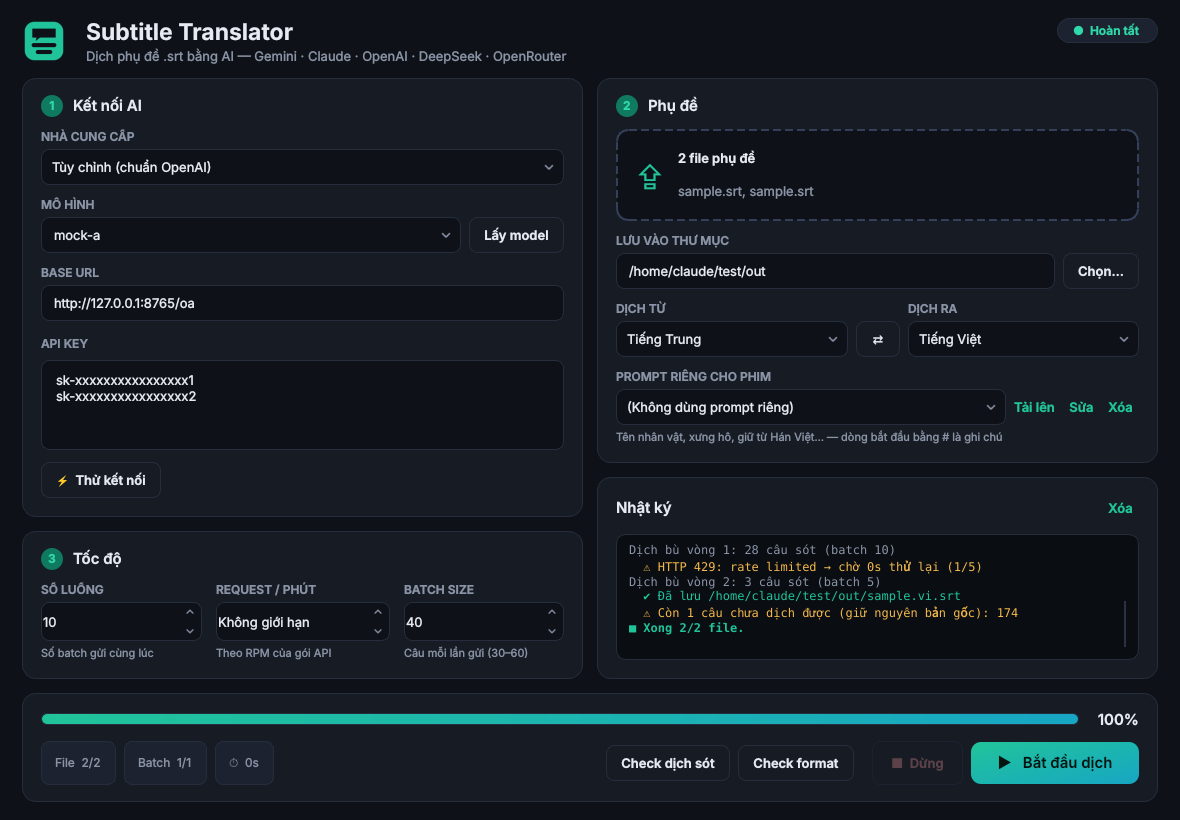
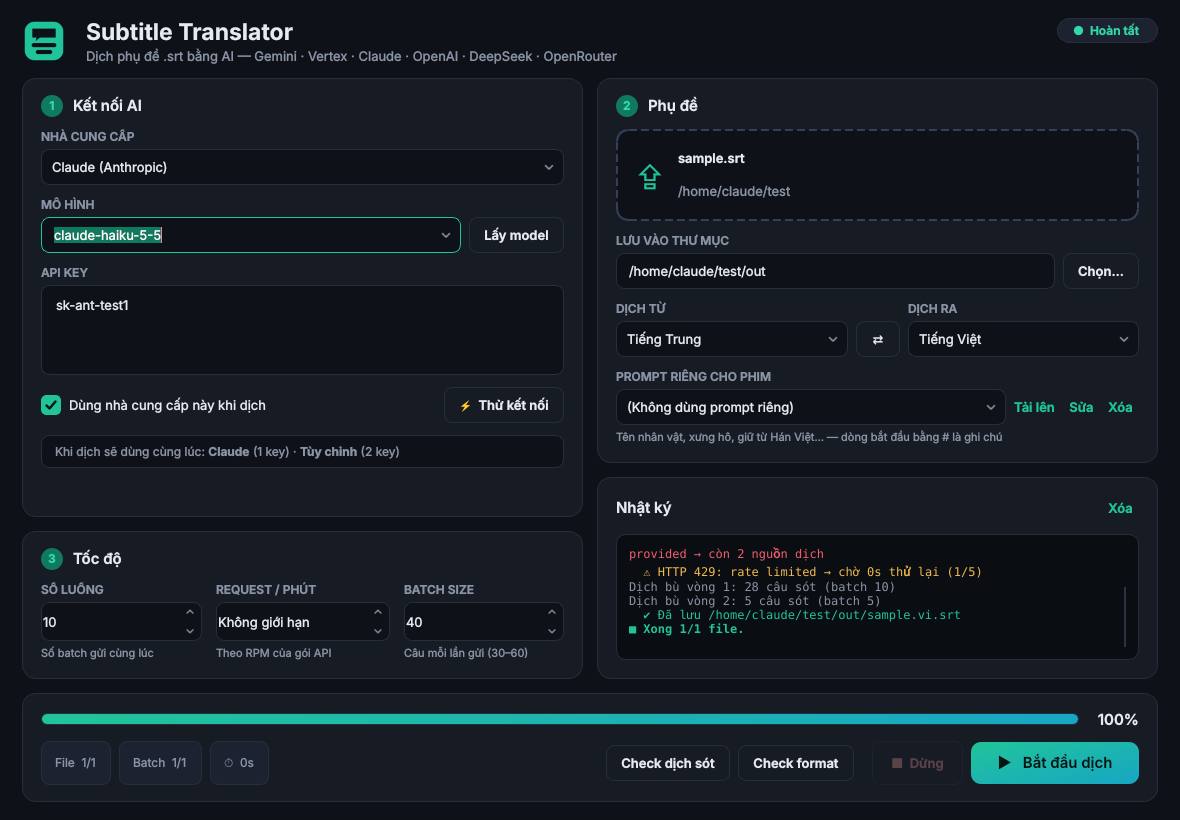
Dùng nhiều nhà cung cấp cùng lúc + tự loại key lỗi
- Mỗi nhà cung cấp có ô 'Dùng nhà cung cấp này khi dịch'; dòng tóm tắt các nguồn sẽ dùng
- Khi dịch: xoay vòng mọi key của mọi nhà cung cấp đã tick (không tick = chỉ nhà cung cấp đang chọn)
- Lỗi không thử lại được (401 sai key, sai model...) chỉ loại key đó, batch chuyển sang nguồn khác
- Sửa: chặn lưu cấu hình trong lúc đang chuyển nhà cung cấp (tránh ghi đè model sai)

Chạy thử offscreen với server giả (1 key hỏng + 1 key tốt chuẩn OpenAI, 1 key Claude; DeepSeek có key nhưng không tick):
B: Khi dịch sẽ dùng cùng lúc: <b>Claude</b> (1 key) · <b>Tùy chỉnh</b> (2 key)
saved models: {'Gemini': 'gemini-2.5-flash-lite', 'Tùy chỉnh (chuẩn OpenAI)': 'mock-a', 'Claude (Anthropic)': 'claude-haiku-5-5', 'DeepSeek': 'deepseek-chat'}
Nguồn dịch: Claude, Tùy chỉnh — tổng 3 key
  ✖ Loại Tùy chỉnh · mock-a · key …dkey: HTTP 401: Incorrect API key provided → còn 2 nguồn dịch
  ✔ Đã lưu /home/claude/test/out/sample.vi.srt
■ Xong 1/1 file.

Claude-Session: https://claude.ai/code/session_01H5HbWBifemTeb2HSjDbMLY

diff --git a/app/gui.py b/app/gui.py
@@ -12,7 +12,7 @@ from pathlib import Path
 
 from PySide6.QtCore import QThread, QTimer, Qt, Signal
 from PySide6.QtWidgets import (
-    QApplication, QComboBox, QFileDialog, QFrame, QHBoxLayout,
+    QApplication, QCheckBox, QComboBox, QFileDialog, QFrame, QHBoxLayout,
     QLabel, QLineEdit, QMainWindow, QMessageBox, QPlainTextEdit, QProgressBar, QPushButton,
     QSpinBox, QVBoxLayout, QWidget,
 )
@@ -277,6 +277,9 @@ class MainWindow(QMainWindow):
         self.ed_keys.setPlaceholderText("Dán API key…\nNhiều key: mỗi dòng một key, app sẽ xoay vòng")
         self.ed_keys.setMinimumHeight(64); self.ed_keys.setMaximumHeight(90)
         self.btn_test = btn("⚡  Thử kết nối", "ghost")
+        self.chk_use = QCheckBox("Dùng nhà cung cấp này khi dịch")
+        self.chk_use.setCursor(Qt.PointingHandCursor)
+        self.lb_using = QLabel(); self.lb_using.setObjectName("using"); self.lb_using.setWordWrap(True)
         self.base_wrap = QWidget()
         bw = QVBoxLayout(self.base_wrap); bw.setContentsMargins(0, 0, 0, 0)
         bw.addLayout(field("Base URL", self.ed_base))
@@ -284,8 +287,9 @@ class MainWindow(QMainWindow):
         v1.addLayout(field("Mô hình", mrow))
         v1.addWidget(self.base_wrap)
         v1.addLayout(field("API key", self.ed_keys))
-        trow = QHBoxLayout(); trow.addWidget(self.btn_test); trow.addStretch(1)
+        trow = QHBoxLayout(); trow.addWidget(self.chk_use); trow.addStretch(1); trow.addWidget(self.btn_test)
         v1.addLayout(trow)
+        v1.addWidget(self.lb_using)
         v1.addStretch(1)
 
         # ===== thẻ 2: Phụ đề
@@ -398,6 +402,9 @@ class MainWindow(QMainWindow):
         self.btn_stop.clicked.connect(self._stop)
         self.btn_fmt.clicked.connect(self._check_format)
         self.btn_clear.clicked.connect(self.log_box.clear)
+        self.chk_use.toggled.connect(self._on_use_toggled)
+        self.ed_keys.textChanged.connect(self._refresh_using)
+        self.cb_model.currentTextChanged.connect(self._refresh_using)
 
         self._apply_cfg()
 
@@ -434,6 +441,7 @@ class MainWindow(QMainWindow):
         pc["keys"] = self.ed_keys.toPlainText().strip()
         pc["model"] = self.cb_model.currentText().strip()
         pc["base_url"] = self.ed_base.text().strip()
+        pc["enabled"] = self.chk_use.isChecked()
 
     def _save_cfg(self):
         self._save_provider_state(self.cb_provider.currentText())
@@ -447,11 +455,13 @@ class MainWindow(QMainWindow):
         CONFIG.write_text(json.dumps(self.cfg, ensure_ascii=False, indent=2), encoding="utf-8")
 
     _current_provider = None
+    _loading = False
 
     def _on_provider(self, name: str):
         if self._current_provider and self._current_provider != name:
             self._save_provider_state(self._current_provider)
         self._current_provider = name
+        self._loading = True
         p = PROVIDERS[name]
         pc = self.cfg.get("per_provider", {}).get(name, {})
         self.ed_keys.setPlainText(pc.get("keys", ""))
@@ -459,9 +469,14 @@ class MainWindow(QMainWindow):
         models = list(dict.fromkeys(pc.get("models_cache", []) or p["models"]))
         self.cb_model.addItems(models)
         self.cb_model.setCurrentText(pc.get("model") or (models[0] if models else ""))
+        self.chk_use.blockSignals(True)
+        self.chk_use.setChecked(bool(pc.get("enabled")))
+        self.chk_use.blockSignals(False)
         custom = not p["base_url"]
         self.base_wrap.setVisible(custom)
         self.ed_base.setText(pc.get("base_url", "") if custom else p["base_url"])
+        self._loading = False
+        self._refresh_using()
 
     # ---------- chọn file
     def _pick_input(self):
@@ -545,6 +560,53 @@ class MainWindow(QMainWindow):
         return [make_provider(self.cb_provider.currentText(), k, model, self.ed_base.text())
                 for k in (keys or [""])]
 
+    def _on_use_toggled(self, on: bool):
+        self._refresh_using()
+
+    def _sources(self) -> list[tuple[str, list[str], str, str]]:
+        """Các nguồn sẽ dùng khi dịch: [(tên, keys, model, base_url)].
+        Không bật nguồn nào -> chỉ dùng nhà cung cấp đang chọn."""
+        cur = self.cb_provider.currentText()
+        if cur:
+            self._save_provider_state(cur)
+        out = []
+        for name in PROVIDERS:
+            pc = self.cfg.get("per_provider", {}).get(name, {})
+            keys = [k.strip() for k in pc.get("keys", "").splitlines() if k.strip()]
+            if pc.get("enabled") and keys and pc.get("model"):
+                out.append((name, keys, pc["model"], pc.get("base_url", "")))
+        if not out and cur:
+            pc = self.cfg["per_provider"][cur]
+            keys = [k.strip() for k in pc.get("keys", "").splitlines() if k.strip()]
+            out.append((cur, keys, pc.get("model", ""), pc.get("base_url", "")))
+        return out
+
+    def _refresh_using(self, *_):
+        if not hasattr(self, "lb_using") or self._current_provider is None or self._loading:
+            return
+        src = self._sources()
+        any_enabled = any(pc.get("enabled") for pc in self.cfg.get("per_provider", {}).values())
+        parts = [f"<b>{n.split(' (')[0]}</b> ({len(k)} key)" for n, k, _, _ in src if k]
+        if not parts:
+            text = "Khi dịch: chưa có API key nào."
+        elif any_enabled:
+            text = "Khi dịch sẽ dùng cùng lúc: " + " · ".join(parts)
+        else:
+            text = "Khi dịch dùng: " + parts[0] + " — tick ô bên trên ở nhiều nhà cung cấp để dùng cùng lúc"
+        self.lb_using.setText(text)
+
+    def _make_translate_providers(self):
+        provs = []
+        for name, keys, model, base in self._sources():
+            if not keys:
+                raise ProviderError(f"{name}: chưa nhập API key")
+            if not model:
+                raise ProviderError(f"{name}: chưa chọn mô hình")
+            provs += [make_provider(name, k, model, base) for k in keys]
+        if not provs:
+            raise ProviderError("Chưa nhập API key")
+        return provs
+
     def _fetch_models(self):
         try:
             prov = self._make_providers(need_key=False)[0]
@@ -589,7 +651,7 @@ class MainWindow(QMainWindow):
         if not self.files:
             return QMessageBox.warning(self, "Thiếu file", "Chưa chọn file .srt")
         try:
-            providers = self._make_providers()
+            providers = self._make_translate_providers()
         except ProviderError as e:
             return QMessageBox.warning(self, "Lỗi", str(e))
         self._save_cfg()
@@ -598,6 +660,8 @@ class MainWindow(QMainWindow):
             threads=self.sp_threads.value(), batch_size=self.sp_batch.value(),
             rpm=self.sp_rpm.value(), custom_prompt=self._prompt_text(),
         )
+        names = sorted({p.label.split(" · ")[0] for p in providers})
+        self._log(f"Nguồn dịch: {', '.join(names)} — tổng {len(providers)} key")
         self.worker = Worker(mode, list(self.files), self.ed_output.text().strip(), providers, settings)
         self.worker.log.connect(self._log)
         self.worker.progress.connect(self._on_progress)

diff --git a/app/translator.py b/app/translator.py
@@ -109,12 +109,29 @@ class Translator:
         self.system = build_system_prompt(self.settings)
         self._rr = 0
         self._rr_lock = threading.Lock()
+        self._dead: set[int] = set()
+
+    def _alive(self) -> list[Provider]:
+        return [p for p in self.providers if id(p) not in self._dead]
 
     def _next_provider(self) -> Provider:
         with self._rr_lock:
-            p = self.providers[self._rr % len(self.providers)]
+            alive = self._alive()
+            if not alive:
+                raise ProviderError("Tất cả API key / nhà cung cấp đều lỗi")
+            p = alive[self._rr % len(alive)]
             self._rr += 1
             return p
+
+    def _drop(self, prov: Provider, err: Exception) -> bool:
+        """Loại provider lỗi hẳn (sai key, sai model...). Trả về True nếu vẫn còn provider khác."""
+        with self._rr_lock:
+            if id(prov) not in self._dead:
+                self._dead.add(id(prov))
+                left = len(self._alive())
+                self.cb.log(f"  ✖ Loại {getattr(prov, 'label', '?')}: {str(err)[:160]}"
+                            + (f" → còn {left} nguồn dịch" if left else ""))
+            return bool(self._alive())
 
     # ---- một batch ----
     def _translate_batch(self, items: dict[str, str]) -> dict[str, str]:
@@ -124,14 +141,17 @@ class Translator:
             if self.stop.is_set():
                 raise Stopped()
             self.limiter.wait(self.stop)
+            prov = self._next_provider()
             try:
-                reply = self._next_provider().chat(self.system, user)
+                reply = prov.chat(self.system, user)
                 result = parse_json_reply(reply)
                 got = {k: result[k] for k in items if k in result}
                 if len(got) >= max(1, int(len(items) * 0.5)):
                     return got  # thiếu vài câu thì để vòng dịch bù xử lý
                 last_err = f"chỉ nhận {len(got)}/{len(items)} câu"
-            except ProviderError:
+            except ProviderError as e:
+                if self._drop(prov, e):
+                    continue  # thử lại batch này bằng nguồn khác
                 raise
             except RetryableError as e:
                 last_err = str(e)

diff --git a/app/theme.py b/app/theme.py
@@ -40,6 +40,24 @@ def _arrow(direction: str, color: str = MUTED) -> str:
     return out.as_posix()
 
 
+def _tick() -> str:
+    out = Path(tempfile.gettempdir()) / "st_tick.png"
+    if out.exists():
+        return out.as_posix()
+    pm = QPixmap(18, 18)
+    pm.fill(Qt.transparent)
+    p = QPainter(pm)
+    p.setRenderHint(QPainter.Antialiasing)
+    p.setPen(QPen(QColor("#04150f"), 2.4, Qt.SolidLine, Qt.RoundCap, Qt.RoundJoin))
+    path = QPainterPath(QPointF(4.5, 9.5))
+    path.lineTo(7.5, 12.5)
+    path.lineTo(13.5, 5.5)
+    p.drawPath(path)
+    p.end()
+    pm.save(str(out))
+    return out.as_posix()
+
+
 def app_icon() -> QIcon:
     pm = QPixmap(128, 128)
     pm.fill(Qt.transparent)
@@ -67,7 +85,7 @@ def app_font() -> QFont:
 
 
 def stylesheet() -> str:
-    down, up = _arrow("down"), _arrow("up")
+    down, up, tick = _arrow("down"), _arrow("up"), _tick()
     return f"""
 * {{ color: {TEXT}; outline: none; }}
 QMainWindow, #root {{ background: {BG}; }}
@@ -88,6 +106,14 @@ QToolTip {{ background: {CARD_2}; color: {TEXT}; border: 1px solid {BORDER}; pad
 #pill[state="run"] {{ color: {ACCENT_HOVER}; border-color: {ACCENT_DARK}; background: #10241f; }}
 #pill[state="err"] {{ color: {DANGER}; border-color: #5a2630; background: #2a1419; }}
 #pill[state="ok"] {{ color: {ACCENT_HOVER}; }}
+
+#using {{ color: {MUTED}; font-size: 9pt; background: {BG}; border: 1px solid {BORDER};
+          border-radius: 8px; padding: 8px 10px; }}
+QCheckBox {{ spacing: 8px; color: {TEXT}; }}
+QCheckBox::indicator {{ width: 18px; height: 18px; border-radius: 5px; border: 1px solid #3a465c;
+                       background: {BG}; }}
+QCheckBox::indicator:hover {{ border-color: {ACCENT}; }}
+QCheckBox::indicator:checked {{ background: {ACCENT}; border-color: {ACCENT}; image: url({tick}); }}
 
 #chip {{ background: {CARD_2}; border: 1px solid {BORDER}; border-radius: 8px;
          padding: 5px 10px; color: {MUTED}; font-size: 9pt; }}

diff --git a/app/providers.py b/app/providers.py
@@ -93,6 +93,7 @@ class Provider:
         self.base_url = base_url.rstrip("/")
         self.temperature = temperature
         self.session = requests.Session()
+        self.label = self.model
 
     def chat(self, system: str, user: str) -> str:  # pragma: no cover
         raise NotImplementedError
@@ -223,4 +224,7 @@ def make_provider(name: str, api_key: str, model: str, base_url: str | None = No
     if not url:
         raise ProviderError("Chưa nhập Base URL cho nhà cung cấp tùy chỉnh")
     cls = {"anthropic": AnthropicProvider, "vertex": VertexProvider}.get(cfg["kind"], OpenAICompatible)
-    return cls(api_key, model, url)
+    prov = cls(api_key, model, url)
+    tail = api_key.strip()[-4:] if api_key.strip() else "----"
+    prov.label = f"{name.split(' (')[0]} · {model} · key …{tail}"
+    return prov

diff --git a/README.md b/README.md
@@ -18,6 +18,7 @@ Bấm đúp `build_exe.bat`. File chạy sẽ nằm ở `dist\SubtitleTranslator
 ## Dùng
 
 1. **Nhà cung cấp:** chọn nơi bạn có API key. Dán key vào ô API Key; có nhiều key thì mỗi dòng một key, app sẽ xoay vòng giữa các key.
+   **Dùng nhiều nhà cung cấp cùng lúc:** ở mỗi nhà cung cấp muốn dùng, nhập key, chọn model rồi tick ô **Dùng nhà cung cấp này khi dịch**. Dòng tóm tắt ngay bên dưới cho biết lúc dịch sẽ dùng những nguồn nào. App xoay vòng qua mọi key của mọi nhà cung cấp đã tick; key nào lỗi hẳn (sai key, hết tiền) sẽ bị loại và các nguồn còn lại dịch tiếp. Nếu không tick ô nào thì app chỉ dùng nhà cung cấp đang chọn.
 2. **Mô hình:** bấm **Lấy model** để tải danh sách model thật của key đó, rồi chọn một model. Bấm **Thử kết nối** để kiểm tra.
 3. **Phụ đề:** kéo thả một hoặc nhiều file `.srt` vào ô nét đứt (hoặc bấm vào ô đó để chọn), ví dụ cả bộ phim. **Output** để trống thì file dịch được lưu cạnh file gốc, tên dạng `ten-phim.vi.srt`.
 4. **Số luồng / Request/phút / Batch size:**
